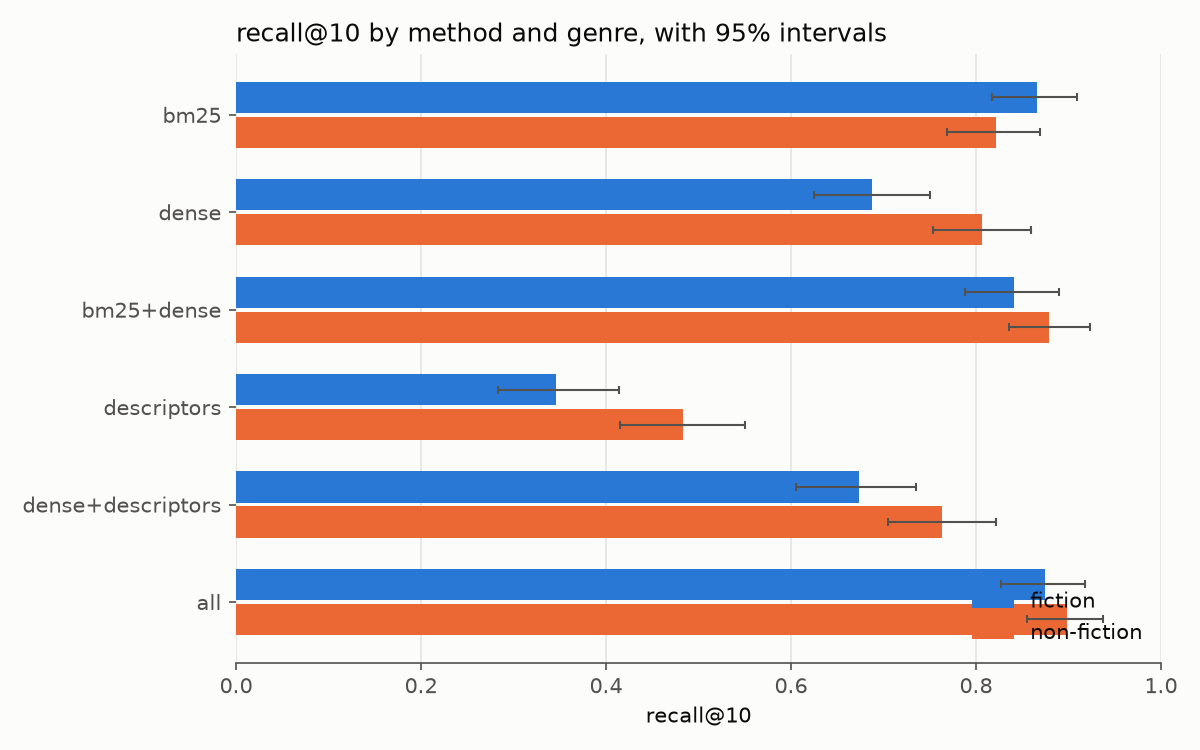
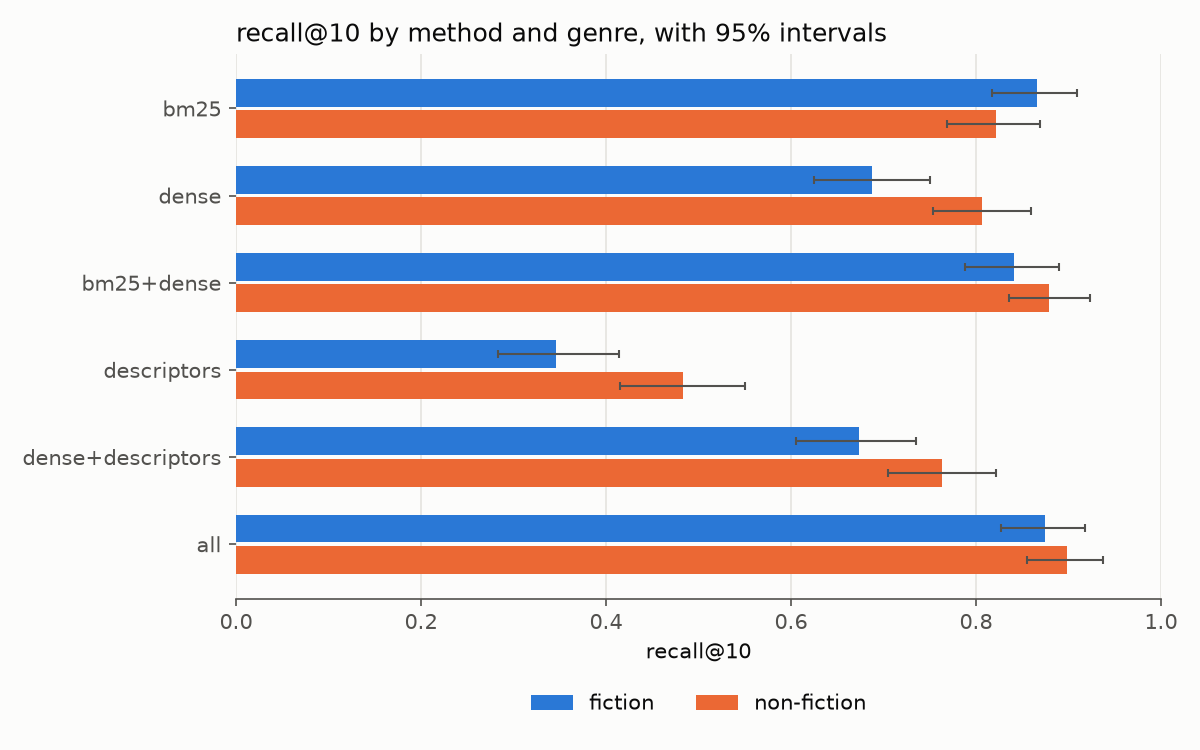
fix: rag report puts the chart legend below the axis
In recall.png the legend sat in the lower right, inside the axes, and
covered the bars of the "all" method. It now sits below the x-axis
label, in one row, outside every bar.

The report of run 2026-11-27-main is written again with the fix.
report.md, tests.csv and recall.csv came out byte for byte the same;
only recall.png changes.

Closes #205

diff --git a/backend/rag/report.py b/backend/rag/report.py
@@ -331,7 +331,14 @@ def _chart(table: list[dict], path: Path) -> None:
     for side in ("top", "right", "left"):
         axes.spines[side].set_visible(False)
     axes.spines["bottom"].set_color(_MUTED)
-    axes.legend(frameon=False, labelcolor=_INK, loc="lower right")
+    # Below the axis label: inside the axes, the legend covers the longest bars.
+    axes.legend(
+        frameon=False,
+        labelcolor=_INK,
+        loc="upper center",
+        bbox_to_anchor=(0.5, -0.14),
+        ncol=len(GENRES),
+    )
     axes.set_title(
         f"recall@{MAIN_K} by method and genre, with {CONFIDENCE:.0%} intervals",
         color=_INK,
